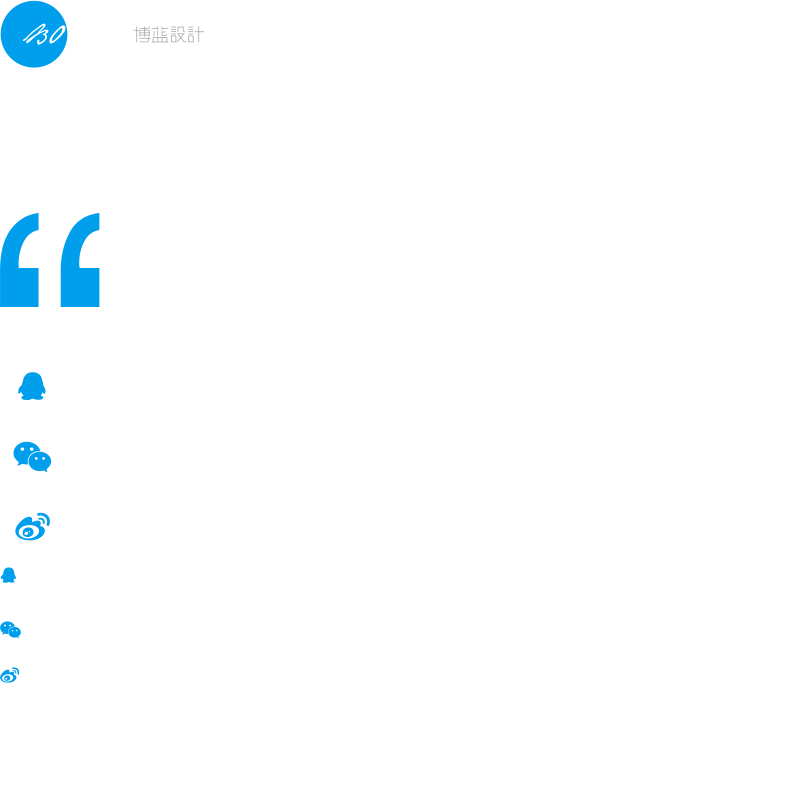
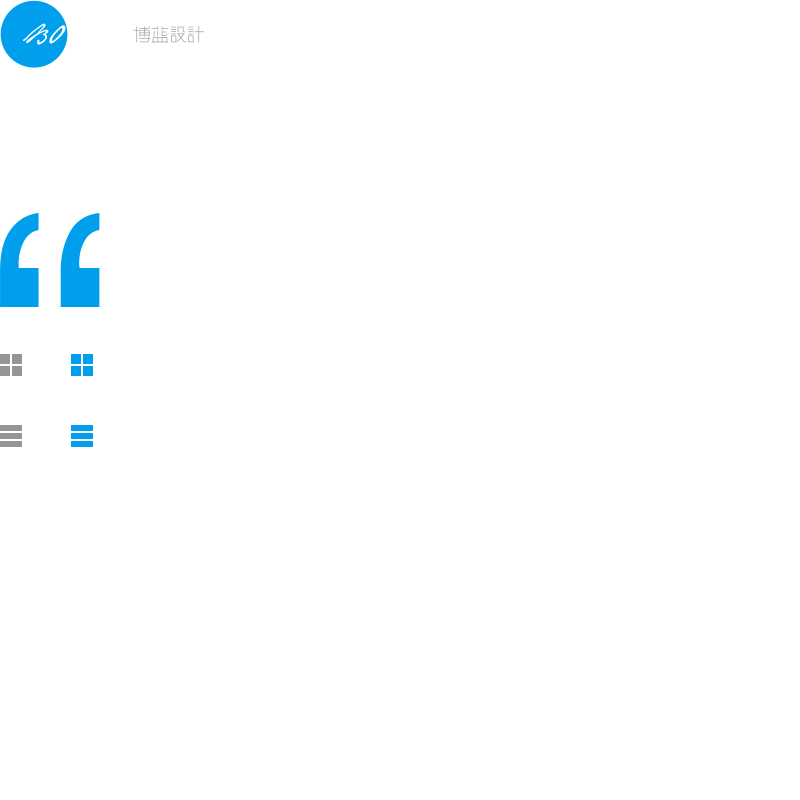
add about

diff --git a/css/page.css b/css/page.css
@@ -51,12 +51,101 @@ transform: scale(1.1);}
 
 
 /* =======================  about  =======================*/
-.about-banner{position: relative;width: 100%;background: url(../images/ab-img01.jpg) center 0 no-repeat;height: 790px;}
+.about-banner{position: relative;width: 100%;background: url(../images/ab-img01.jpg) center 0 no-repeat;height: 790px;margin-bottom: 50px;}
 .about-banner .text{position: absolute;right: 0;top: 0;bottom:0;width: 50%;color: #fff;font-size: 12px;line-height: 2em;}
+.about-banner .text h4{font-size: 18px;font-weight: normal;margin-bottom: 20px;}
+.about-banner .text p{text-align: justify;}
 .about-banner .text .d-1{background: rgba(0,159,236,0.7);padding: 60px 80px 0;height: 390px;}
 .about-banner .text .d-2,
 .about-banner .text .d-3{height: 200px;background:rgba(0,0,0,0.85);padding: 40px 80px 0;}
+.about-banner .text .d-2 h4,
+.about-banner .text .d-3 h4{color: #009fec;}
 .about-banner .text .d-3{background: rgba(30,30,30,0.9);}
+
+.partner {min-height: 520px;position: relative;overflow: hidden;}
+.partner .swiper-container{padding:100px 80px;margin:0 -20px;}
+.partner .swiper-slide a{display:block;margin:30px 0;}
+.partner .swiper-slide img{display:block;}
+.partner .swiper-button-prev, 
+.partner .swiper-button-next{width:60px;background:none;line-height:44px;border-bottom:1px solid #000;}
+.partner .swiper-button-prev{left:0;text-align:right;}
+.partner .swiper-button-next{right:0;}
+.partner .title{border-bottom: 1px solid #ccc;margin-bottom: 0;}
+.partner .title li.lg{cursor: pointer;background:url(../images/css-spd.png) 0 -354px no-repeat;width: 22px;height: 22px;}
+.partner .title li.li{cursor: pointer;background:url(../images/css-spd.png) 0 -425px no-repeat;width: 22px;height: 22px;margin-left: 10px;}
+.partner .title li.lg.active{background:url(../images/css-spd.png) -71px -354px no-repeat;width: 22px;height: 22px;}
+.partner .title li.li.active{background:url(../images/css-spd.png) -71px -425px no-repeat;width: 22px;height: 22px;margin-left: 10px;}
+.partner .list{display: none;padding:120px 0;}
+.partner .list dl{float: left;width: 20%;}
+.partner .list dt{font-size: 16px;margin-bottom: 30px;}
+.partner .list dd{padding-right: 20px;margin-bottom: 10px;}
+.partner .list dd a{-webkit-transition: all 0.5s;
+-o-transition: all 0.5s;
+transition: all 0.5s;color: #999;display: block;white-space: nowrap;overflow: hidden;-ms-text-overflow: ellipsis; text-overflow: ellipsis;}
+.partner .list dd a:hover{color: #009fec;}
+
+
+.about-2{height:370px;background:#1e1f24;position:relative;}
+.about-2 .item{width:289px;height:265px;position:absolute;left:50%;top:50%;margin:-133px 0 0 -145px;background:url(../images/ibg03.png) center center no-repeat;}
+.about-2 .item .num,
+.about-2 .item .line,
+.about-2 .item .text{opacity:0;position:absolute;top:50%;color:#fff;text-align:center;width:100%;
+-webkit-transition:all 1s 2s;transition:all 1s 2s;
+}
+.about-2 .item .num{font-size:68px;line-height:1em;margin-top:-80px;}
+.about-2 .item .text{position:absolute;margin-top:20px;font-size:30px;}
+.about-2 .item .line{background:#00a0e9;width:40px;height:1px;left:50%;margin-left:-20px;margin-top:4px;}
+.about-2 .item-2,
+.about-2 .item-4{margin-top:-138px;}
+.about-2 .item-2 .text,
+.about-2 .item-4 .text{margin-top:24px;}
+.about-2 .item-2 .num,
+.about-2 .item-4 .num{margin-top:-74px;}
+.about-2 .item-3,
+.about-2 .item-4{}
+.about-2.show .item-1{-webkit-animation: about2AniLeft1 2s forwards;animation: about2AniLeft1 2s forwards;}
+.about-2.show .item-2{-webkit-animation: about2AniLeft2 1s forwards;animation: about2AniLeft2 1s forwards;}
+.about-2.show .item-3{-webkit-animation: about2AniRight3 1s forwards;animation: about2AniRight3 1s forwards;}
+.about-2.show .item-4{-webkit-animation: about2AniRight4 2s forwards;animation: about2AniRight4 2s forwards;}
+.about-2.show .item .num,
+.about-2.show .item .line,
+.about-2.show .item .text{opacity:1;}
+@-webkit-keyframes about2AniLeft1{
+	0{}
+	50%{margin-left:-270px;}
+	100%{margin-left:-520px;}
+}
+@keyframes about2AniLeft1{
+	0{}
+	50%{margin-left:-270px;}
+	100%{margin-left:-520px;}
+}
+@-webkit-keyframes about2AniLeft2{
+	0{}
+	100%{margin-left:-270px;}
+}
+@keyframes about2AniLeft2{
+	0{}
+	100%{margin-left:-270px;}
+}
+@-webkit-keyframes about2AniRight3{
+	0{}
+	100%{margin-left:-20px;}
+}
+@keyframes about2AniRight3{
+	0{}
+	100%{margin-left:-20px;}
+}
+@-webkit-keyframes about2AniRight4{
+	0{}
+	50%{margin-left:-20px;}
+	100%{margin-left:230px;}
+}
+@keyframes about2AniRight4{
+	0{}
+	50%{margin-left:-20px;}
+	100%{margin-left:230px;}
+}
 
 /* =======================  about  =======================*/
 
@@ -89,6 +178,31 @@ transform: scale(1.1);}
 	.detail-other h5{padding: 0 15px;}
 	.detail-other ul{margin: 0;}
 	.detail-other li{width: 100%;padding: 0;margin: 0 0 10px;}
+
+	.about-2{height: 680px;}
+	.about-2 .item{width: 40%;margin-left: 0;margin-left: -20%;margin-top: -135px;}
+	.about-2.show .item-1{margin-left: -42%;margin-top: -285px;-webkit-animation: null 2s forwards;animation: null 2s forwards;}
+	.about-2.show .item-2{margin-left: 2%;margin-top: -285px;-webkit-animation: null 1s forwards;animation: null 1s forwards;}
+	.about-2.show .item-3{margin-left: -42%;margin-top: 15px;-webkit-animation: null 1s forwards;animation: null 1s forwards;}
+	.about-2.show .item-4{margin-left: 2%;margin-top: 15px;-webkit-animation: null 2s forwards;animation: null 2s forwards;}
+
+
+}
+
+@media screen and (max-width: 414px){
+	
+	.about-2{height: 500px;}
+	.about-2 .item{-webkit-transition: all 1s ;
+	-o-transition: all 1s ;
+	transition: all 1s ;opacity:0;width: 50%;margin-left: -25%;height: 220px;margin-top: -110px;}
+	.about-2.show .item-1{margin-left: -45%;margin-top: -220px;}
+	.about-2.show .item-2{margin-left: -5%;margin-top: -216px;}
+	.about-2.show .item-3{margin-left: -45%;margin-top: 0;}
+	.about-2.show .item-4{margin-left: -5%;margin-top: 4px;}
+	.about-2 .item .num{font-size: 36px;margin-top: -50px;}
+	.about-2 .item .text{font-size: 20px;}
+
+	.about-2.show .item{opacity:1;}
 
 }
 

diff --git a/about.html b/about.html
@@ -21,7 +21,6 @@
     <link rel="stylesheet" type="text/css" href="css/swiper.min.css" media="all">
     <link rel="stylesheet" type="text/css" href="css/animate.css" media="all">
     <link rel="stylesheet" type="text/css" href="css/common.css" media="all">
-    <link rel="stylesheet" type="text/css" href="css/index.css" media="all">
     <link rel="stylesheet" type="text/css" href="css/page.css" media="all">
 </head>
 
@@ -81,7 +80,61 @@
             </div>
         </div>
         <div class="partner">
-            <div class="swiper-container">
+        	<h3 class="title clearfix">
+        		<ul class=" pull-right list-unstyled list-inline">
+        			<li class="lg active" data-type='lg-list'></li>
+        			<li class="li" data-type="li-list"></li>
+        		</ul>
+        	</h3>
+        	<div class="hide-layer list clearfix li-list">
+        		<dl>
+        			<dt>金融  地产  制造 </dt>
+        			<dd><a href="">代用行业名称公司名公司名</a></dd>
+        			<dd><a href="">代用行业名称公司名</a></dd>
+        			<dd><a href="">代用行业名称公司名公司名</a></dd>
+        			<dd><a href="">代用行业名称公司名</a></dd>
+        			<dd><a href="">代用行业名称公司名公司名</a></dd>
+        			<dd><a href="">代用行业名称公司名</a></dd>
+        		</dl>
+        		<dl>
+        			<dt>金融  地产  制造 </dt>
+        			<dd><a href="">代用行业名称公司名公司名</a></dd>
+        			<dd><a href="">代用行业名称公司名</a></dd>
+        			<dd><a href="">代用行业名称公司名公司名</a></dd>
+        			<dd><a href="">代用行业名称公司名</a></dd>
+        			<dd><a href="">代用行业名称公司名公司名</a></dd>
+        			<dd><a href="">代用行业名称公司名</a></dd>
+        		</dl>
+        		<dl>
+        			<dt>金融  地产  制造 </dt>
+        			<dd><a href="">代用行业名称公司名公司名</a></dd>
+        			<dd><a href="">代用行业名称公司名</a></dd>
+        			<dd><a href="">代用行业名称公司名公司名</a></dd>
+        			<dd><a href="">代用行业名称公司名</a></dd>
+        			<dd><a href="">代用行业名称公司名公司名</a></dd>
+        			<dd><a href="">代用行业名称公司名</a></dd>
+        		</dl>
+        		<dl>
+        			<dt>金融  地产  制造 </dt>
+        			<dd><a href="">代用行业名称公司名公司名</a></dd>
+        			<dd><a href="">代用行业名称公司名</a></dd>
+        			<dd><a href="">代用行业名称公司名公司名</a></dd>
+        			<dd><a href="">代用行业名称公司名</a></dd>
+        			<dd><a href="">代用行业名称公司名公司名</a></dd>
+        			<dd><a href="">代用行业名称公司名</a></dd>
+        		</dl>
+        		<dl>
+        			<dt>金融  地产  制造 </dt>
+        			<dd><a href="">代用行业名称公司名公司名</a></dd>
+        			<dd><a href="">代用行业名称公司名</a></dd>
+        			<dd><a href="">代用行业名称公司名公司名</a></dd>
+        			<dd><a href="">代用行业名称公司名</a></dd>
+        			<dd><a href="">代用行业名称公司名公司名</a></dd>
+        			<dd><a href="">代用行业名称公司名</a></dd>
+        		</dl>
+
+        	</div>
+            <div class="hide-layer swiper-container lg-list">
                 <div class="swiper-wrapper">
                     <div class="swiper-slide">
                         <a href=""><img src="images/p-1.png" width="100%" alt=""></a>
@@ -172,7 +225,7 @@
     <script type="text/javascript" src="js/swiper.min.js"></script>
     <script type="text/javascript" src="js/countUp.js"></script>
     <script type="text/javascript" src="js/common.js"></script>
-    <script type="text/javascript" src="js/index.js"></script>
+    <script type="text/javascript" src="js/about.js"></script>
 </body>
 
 </html>

diff --git a/js/about.js b/js/about.js
@@ -1,0 +1,86 @@
+var clientType = commonJs.getBrowser();
+var aboutPage = {
+	dom:function(){
+		var _this = this;
+		_this.partner = $('.partner');
+        _this.about2 = $('.about-2');
+
+	},
+    partnerFunc: function() {
+        var _this = this;
+        var _spaceBetween = 100;
+        var _slidesPerView = 4;
+        if (clientType.pc == 'pad') {
+            _spaceBetween = 50;
+        } else if (clientType.pc == 'mobile') {
+            _spaceBetween = 10;
+            _slidesPerView = 3;
+        }
+        var swiper = new Swiper('.partner .swiper-container', {
+            // pagination: '.swiper-pagination',
+            nextButton: '.swiper-button-next',
+            prevButton: '.swiper-button-prev',
+            slidesPerView: _slidesPerView,
+            paginationClickable: true,
+            spaceBetween: _spaceBetween,
+            loop: true
+        });
+
+    },
+    bannerScroll: function() {
+        var _this = this;
+
+
+        function scrollAbout2() {
+            _this.about2.each(function() {
+                var $this = $(this);
+                var $text = $this.find('.b-text');
+                var currentPosTop = $this.position().top;
+                var currentH = $this.height();
+                var winH = $(window).height();
+                var scrollTop = $(window).scrollTop();
+
+                if ((currentPosTop + currentH / 2) <= (scrollTop + winH)) {
+                    var _top = (scrollTop + winH - currentPosTop) / 5 * -1;
+                    $this.addClass('show');
+
+                }
+
+                $this.hasClass('show') && setTimeout(function() {
+                    var clsj = new CountUp("clsj", 0, 8, 0, 2);
+                    clsj.start();
+                    var jx = new CountUp("jx", 0, 11, 0, 2);
+                    jx.start();
+                    var alsl = new CountUp("alsl", 0, 343, 0, 4);
+                    alsl.start();
+                    var sjxm = new CountUp("sjxm", 0, 1250, 0, 6);
+                    sjxm.start();
+                }, 2000)
+            })
+        }
+
+        scrollAbout2();
+        $(window).bind('scroll', function() {
+            (!_this.about2.hasClass('show')) && scrollAbout2();
+        });
+    },
+
+	bind:function(){
+		var _this = this;
+		_this.partner.on('click','.title li',function(){
+			var $this = $(this);
+			var _type = $this.attr('data-type');
+
+			_this.partner.find('.hide-layer').hide(); 
+			$('.'+_type).fadeIn();
+		});
+	},
+	init:function(){
+		var _this = this;
+		_this.dom();
+		_this.bind();
+		_this.partnerFunc();
+		_this.bannerScroll();
+	}
+}
+aboutPage.init();
